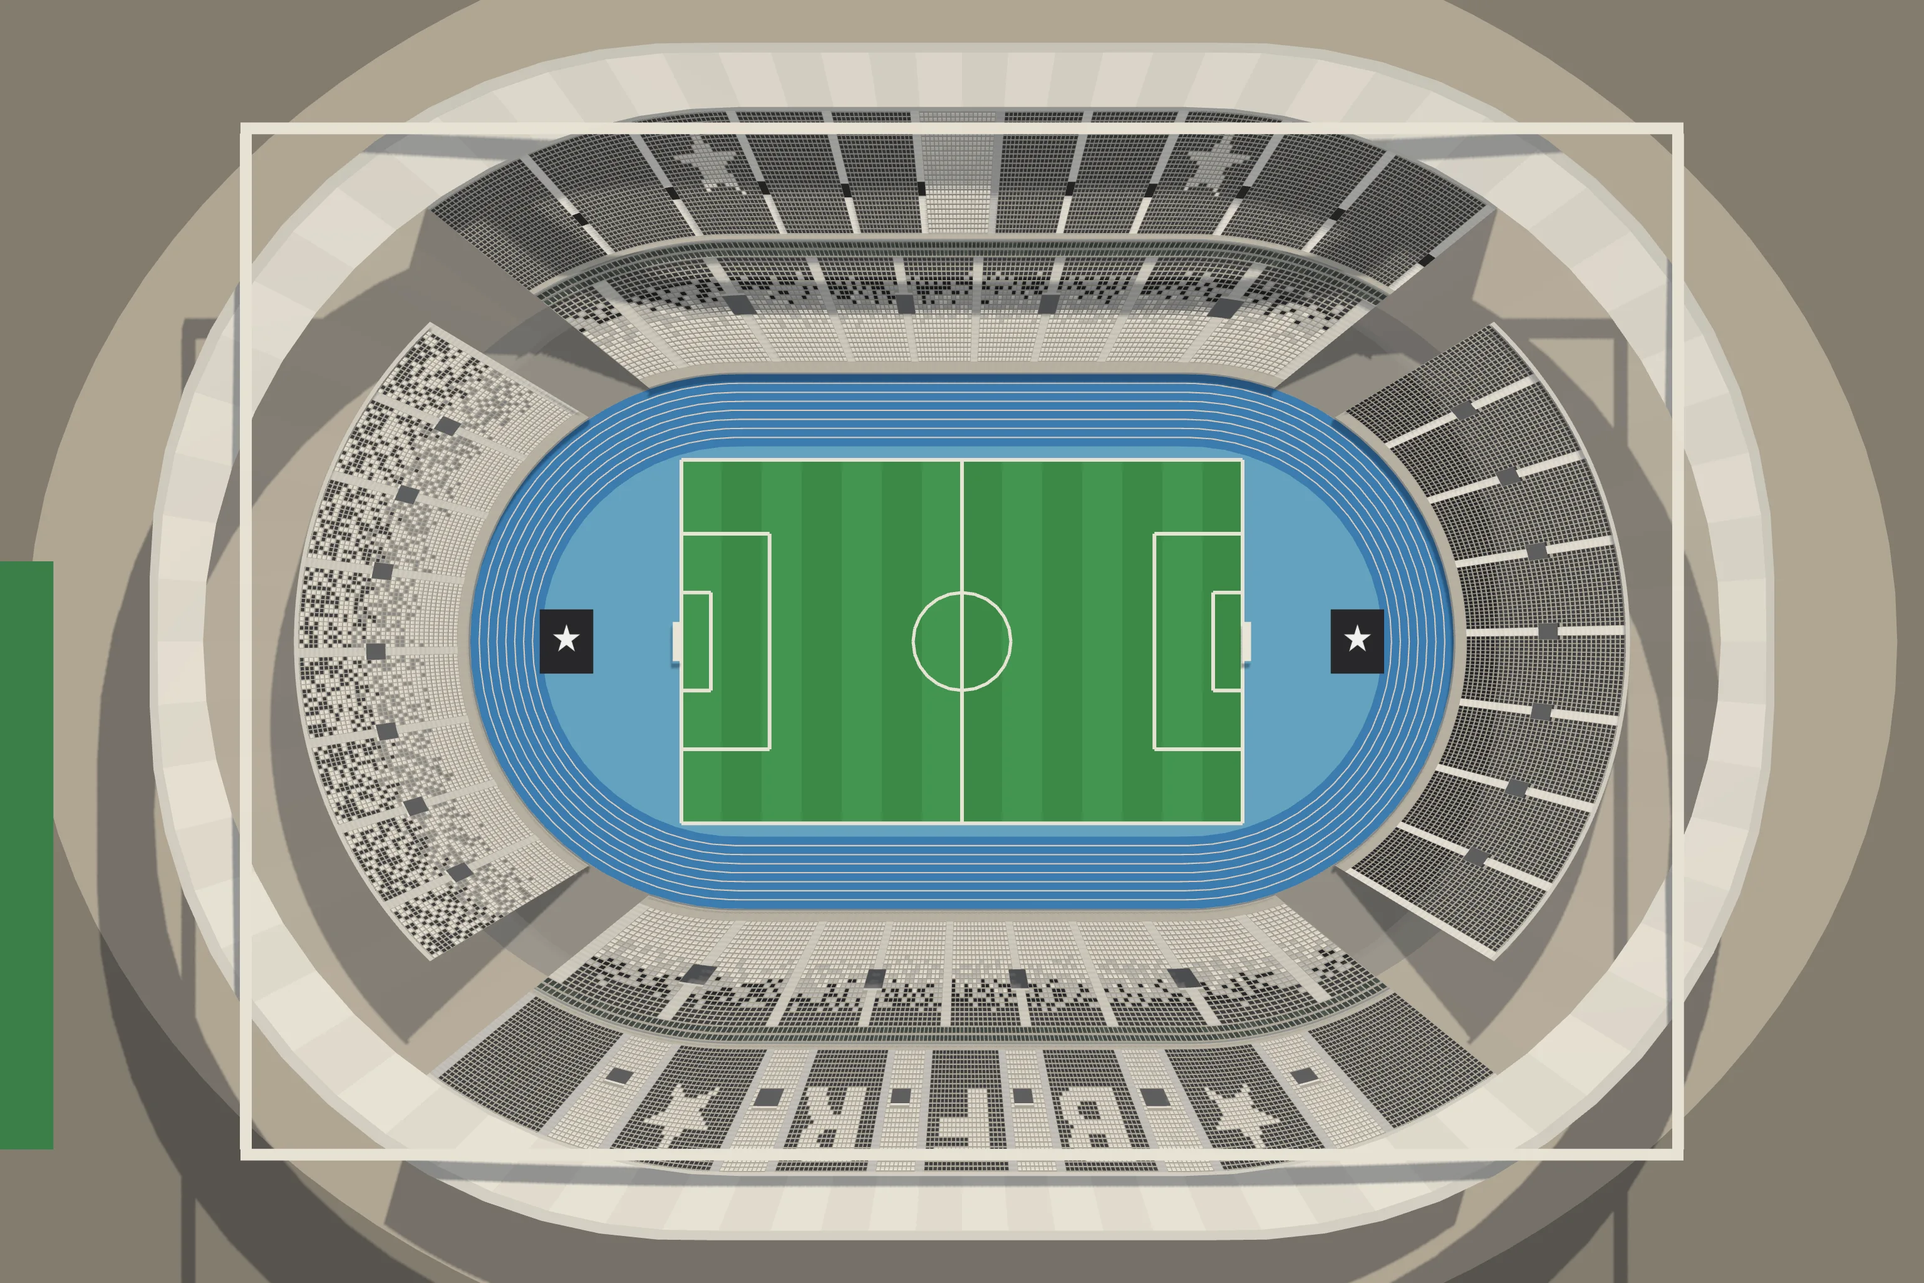
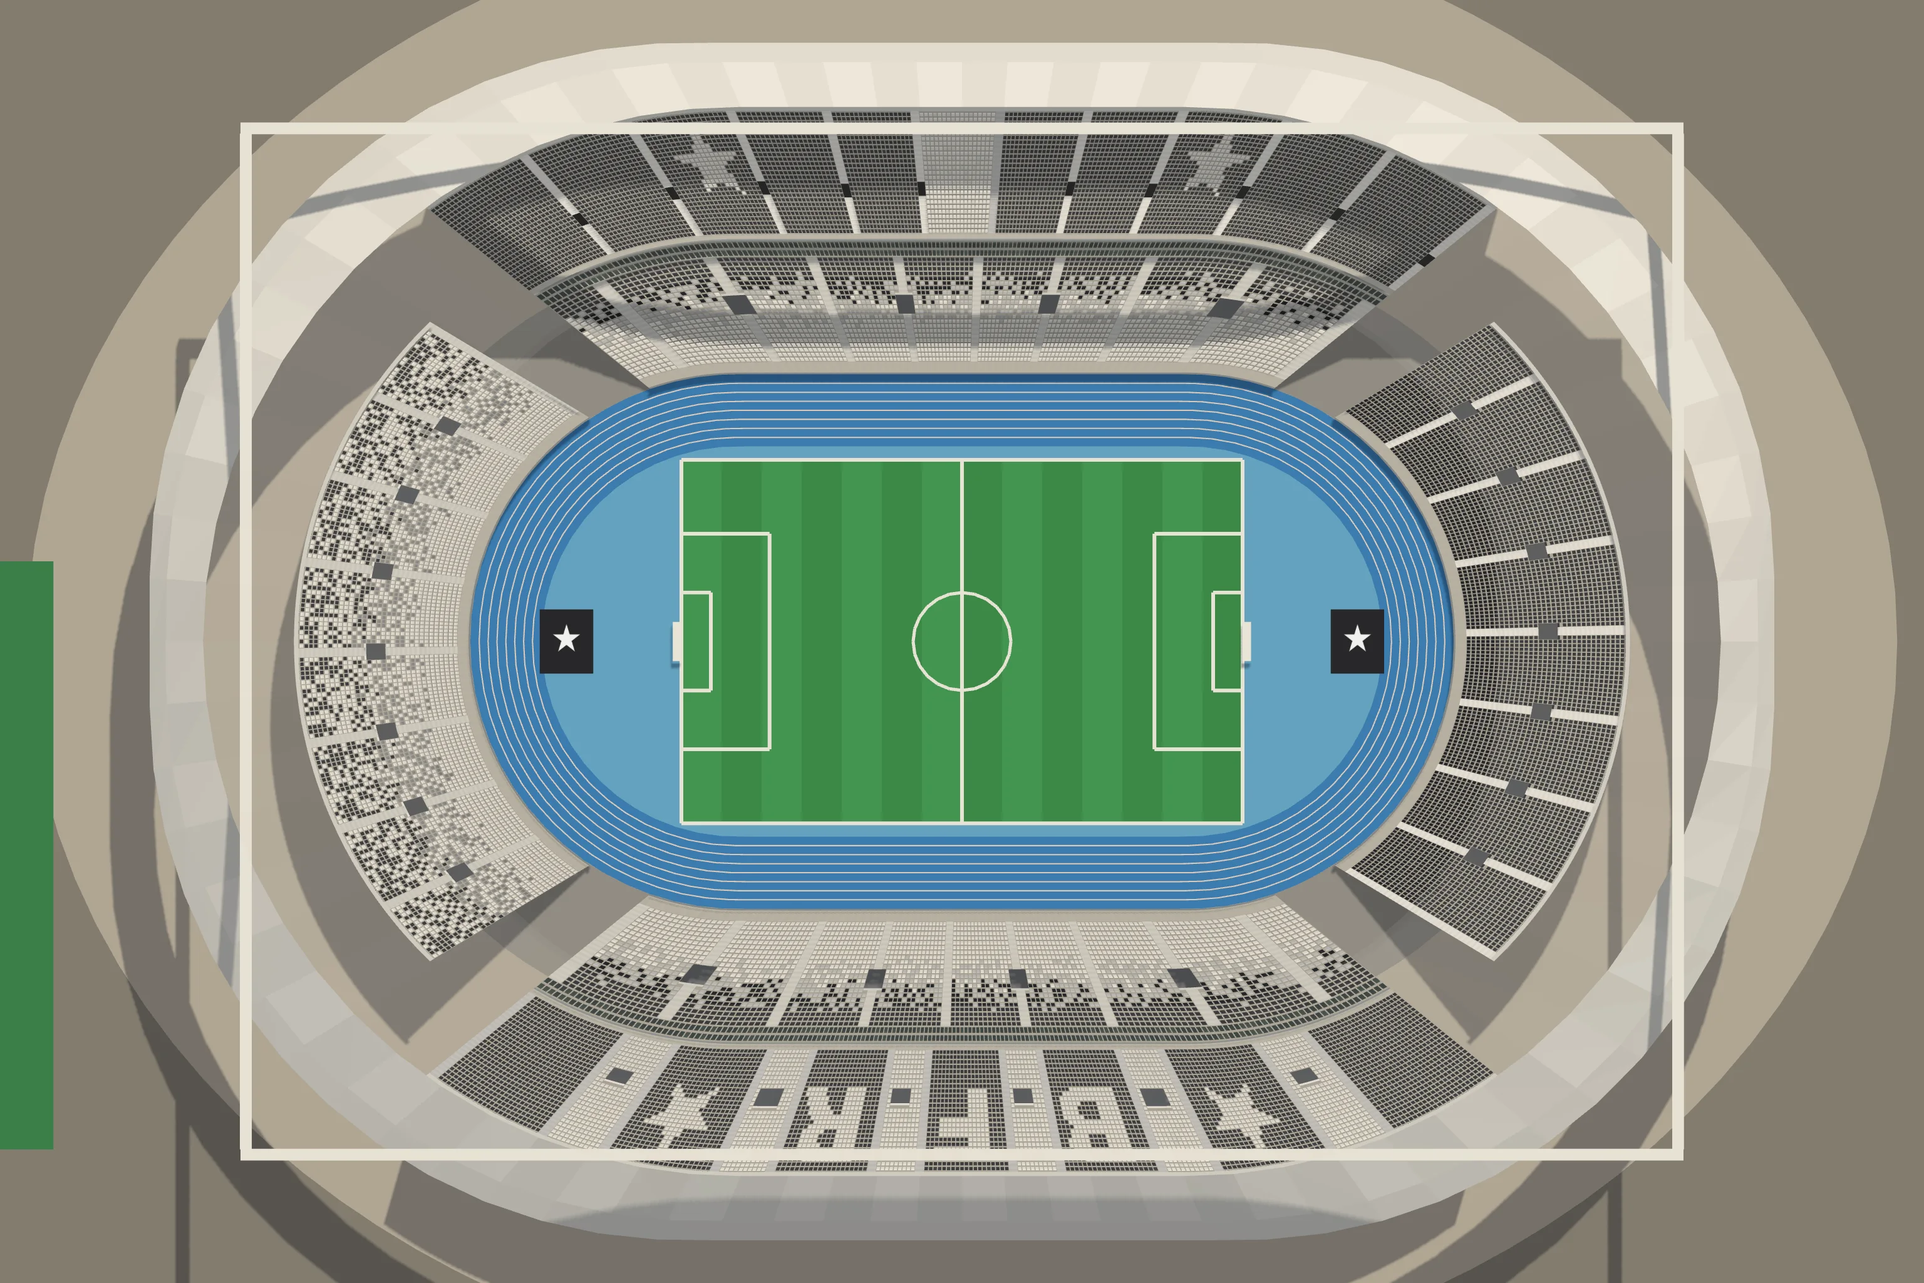
Nilton Santos: o telhado inclinado, alto na abertura e descendo pra fora com a beira dobrada, como na foto do dono
Claude-Session: https://claude.ai/code/session_019hwwMAyyP7ZAvyq6wYTetr

diff --git a/cenario3d/planta.html b/cenario3d/planta.html
@@ -289,24 +289,24 @@ button:focus-visible, input:focus-visible { outline: 2px solid var(--selecao); o
 
 <script type="module">
 import * as THREE from 'https://cdn.jsdelivr.net/npm/three@0.160.0/build/three.module.min.js';
-import { planoDaCasa, montarCasa, juntarBlocos, lugarDoDecalque, placasDoLote, segmentosDoMuro, carrosDoEstacionamento, portaoDoEstacionamento } from './js/casas3d.js?v=8bf3924c88';
-import { montarModelos } from './js/modelos3d.js?v=8bf3924c88';
-import { moldeDaPeca, comTransformador } from './js/props3d.js?v=8bf3924c88';
-import { ATLAS } from './js/modelos_atlas.js?v=8bf3924c88';
-import { Construtor, sorteio } from './js/construtor3d.js?v=8bf3924c88';
-import { gerarProposta, MAPAS, MAPA_DO_PORTE, RUA, LONGE_DO_ESTADIO_M, cisaoDaPraca, VAO_CIDADES_M, PRAIA_A_MAIS } from './js/proposta.js?v=8bf3924c88';
-import { montarSede, nivelQueCabe } from './js/sede3d.js?v=8bf3924c88';
-import { onibus as onibusDetalhe, juntar as juntarDetalhe } from './js/detalhe3d.js?v=8bf3924c88';
-import { montarLoteDeVeraneio, plantaDoLote, festaNoMundo, noMundoDoLote, cenaDaFesta, detalheDaCasaDaFesta } from './js/veraneio3d.js?v=8bf3924c88';
-import { montarCaravana, cenaDaCaravana } from './js/caravana3d.js?v=8bf3924c88';
-import { montarEstacao, montarTunel, montarCarro, TREM } from './js/metro3d.js?v=8bf3924c88';
-import { montarShopping, montarDelegacia, montarPraca, montarIgreja, montarEscola, montarHospital } from './js/equip3d.js?v=8bf3924c88';
-import { montarEquipAntigo, TIPOS_ANTIGOS } from './js/equip_antigo3d.js?v=8bf3924c88';
-import { PECAS_PRAIA, montarPecaDaPraia } from './js/praia3d.js?v=8bf3924c88';
-import { ESPECIES_LP, FLORA_LP, montarArvoreLowpoly, montarAsDez, facesDaArvore, especieLowpolyDe } from './js/arvores_lowpoly.js?v=8bf3924c88';
-import { plantarMato, montarMato, LONGE_M, DENSIDADE, LADRILHO_M } from './js/mato3d.js?v=8bf3924c88';
-import { ESTADIOS_JOGO, montarEstadioJogo, glbDoEstadio, cortarEstadio, plantaDoEstadio, modeloDaLotacao, nomeDoLetreiro, nomeComAcento, marcaDoEstadio, BOCAS_DOS_PORTOES, BILHETERIAS_DA_RUA } from './js/estadios3d.js?v=8bf3924c88';
-import { PECAS_AMBULANTES, montarAmbulante } from './js/ambulantes3d.js?v=8bf3924c88';
+import { planoDaCasa, montarCasa, juntarBlocos, lugarDoDecalque, placasDoLote, segmentosDoMuro, carrosDoEstacionamento, portaoDoEstacionamento } from './js/casas3d.js?v=8119954de7';
+import { montarModelos } from './js/modelos3d.js?v=8119954de7';
+import { moldeDaPeca, comTransformador } from './js/props3d.js?v=8119954de7';
+import { ATLAS } from './js/modelos_atlas.js?v=8119954de7';
+import { Construtor, sorteio } from './js/construtor3d.js?v=8119954de7';
+import { gerarProposta, MAPAS, MAPA_DO_PORTE, RUA, LONGE_DO_ESTADIO_M, cisaoDaPraca, VAO_CIDADES_M, PRAIA_A_MAIS } from './js/proposta.js?v=8119954de7';
+import { montarSede, nivelQueCabe } from './js/sede3d.js?v=8119954de7';
+import { onibus as onibusDetalhe, juntar as juntarDetalhe } from './js/detalhe3d.js?v=8119954de7';
+import { montarLoteDeVeraneio, plantaDoLote, festaNoMundo, noMundoDoLote, cenaDaFesta, detalheDaCasaDaFesta } from './js/veraneio3d.js?v=8119954de7';
+import { montarCaravana, cenaDaCaravana } from './js/caravana3d.js?v=8119954de7';
+import { montarEstacao, montarTunel, montarCarro, TREM } from './js/metro3d.js?v=8119954de7';
+import { montarShopping, montarDelegacia, montarPraca, montarIgreja, montarEscola, montarHospital } from './js/equip3d.js?v=8119954de7';
+import { montarEquipAntigo, TIPOS_ANTIGOS } from './js/equip_antigo3d.js?v=8119954de7';
+import { PECAS_PRAIA, montarPecaDaPraia } from './js/praia3d.js?v=8119954de7';
+import { ESPECIES_LP, FLORA_LP, montarArvoreLowpoly, montarAsDez, facesDaArvore, especieLowpolyDe } from './js/arvores_lowpoly.js?v=8119954de7';
+import { plantarMato, montarMato, LONGE_M, DENSIDADE, LADRILHO_M } from './js/mato3d.js?v=8119954de7';
+import { ESTADIOS_JOGO, montarEstadioJogo, glbDoEstadio, cortarEstadio, plantaDoEstadio, modeloDaLotacao, nomeDoLetreiro, nomeComAcento, marcaDoEstadio, BOCAS_DOS_PORTOES, BILHETERIAS_DA_RUA } from './js/estadios3d.js?v=8119954de7';
+import { PECAS_AMBULANTES, montarAmbulante } from './js/ambulantes3d.js?v=8119954de7';
 
 const $ = id => document.getElementById(id);
 const aviso = $('aviso');
@@ -323,25 +323,25 @@ function carregarScript(src) {
 }
 window.TO = window.TO || { dados: {} };
 try {
-  await carregarScript('dados/torcidas.js?v=8bf3924c88');
-  await carregarScript('dados/times.js?v=8bf3924c88');
-  await carregarScript('dados/cena_estadio.js?v=8bf3924c88');
-  await carregarScript('dados/cidades.js?v=8bf3924c88');
-  await carregarScript('dados/estadios.js?v=8bf3924c88');
-  await carregarScript('dados/escudos.js?v=8bf3924c88');
+  await carregarScript('dados/torcidas.js?v=8119954de7');
+  await carregarScript('dados/times.js?v=8119954de7');
+  await carregarScript('dados/cena_estadio.js?v=8119954de7');
+  await carregarScript('dados/cidades.js?v=8119954de7');
+  await carregarScript('dados/estadios.js?v=8119954de7');
+  await carregarScript('dados/escudos.js?v=8119954de7');
   /* o manifesto das faixas de verdade (a arte do dono, 29/09/2026): a arquibancada estende a da torcida */
-  await carregarScript('dados/faixas.js?v=8bf3924c88').catch(() => {});
+  await carregarScript('dados/faixas.js?v=8119954de7').catch(() => {});
   /* O DOMÍNIO DOS BAIRROS (o dono, 30/09/2026): as sedes repetidas num
      bairro saem espalhadas (nos dados, na carga) e os bares ganham o
      bairro deles — o mesmo módulo do jogo (js/mundo/dominio.js) */
-  await carregarScript('js/dominio.js?v=8bf3924c88').catch(() => {});
+  await carregarScript('js/dominio.js?v=8119954de7').catch(() => {});
 } catch (e) {
   aviso.textContent = 'A planta da cidade não carregou (' + e.message + '). Recarregue a página.';
   throw e;
 }
 /* os PNG dos escudos, embutidos (o montar.sh gera): sem o arquivo, o
    caminho vai direto pra img/escudos/ */
-await carregarScript('dados/escudos_embutidos.js?v=8bf3924c88').catch(() => {});
+await carregarScript('dados/escudos_embutidos.js?v=8119954de7').catch(() => {});
 const P = TO.dados.plantaEstadio, K = P.CIDADE, M = P.METRO, CALC = K.CALC;
 /* o mapa da vez (o pequeno, o médio ou o grande, montado pra praça
    escolhida): quem monta é usarMapa, lá embaixo */

diff --git a/cenario3d/dados/estadios_cenas.js b/cenario3d/dados/estadios_cenas.js
@@ -13526,7 +13526,7 @@ window.__ESTADIOS = {
    "visitante": 3
   },
   "foto": {
-   "imagem": "img/cenas/estadio_nilton_santos.webp?v=fe4a6989",
+   "imagem": "img/cenas/estadio_nilton_santos.webp?v=a528e1c4",
    "mascara": "384;384;384;384;384;384;384;384;384;384;384;384;384;384;384;384;384;384;384;384;384;384;136,112,136;129,126,129;124,136,124;120,144,120;116,152,116;113,158,113;110,164,110;108,168,108;105,174,105;103,178,103;101,182,101;99,186,99;97,190,97;95,194,95;93,198,93;92,200,92;90,204,90;89,206,89;87,210,87;86,212,86;86,212,86;88,208,88;89,206,89;90,204,90;91,202,91;93,198,93;94,196,94;95,194,95;96,192,96;98,188,98;99,186,99;100,184,100;101,182,101;103,178,103;104,176,104;105,174,105;106,172,106;107,170,107;109,166,109;108,168,108;107,170,107;105,174,105;85,1,18,176,18,1,85;84,4,14,180,14,4,84;83,6,12,182,12,6,83;82,9,8,186,8,9,82;81,12,5,188,5,12,81;80,14,3,190,3,14,80;80,224,80;79,226,79;78,228,78;77,230,77;76,65,102,65,76;76,59,114,59,76;75,56,122,56,75;74,55,126,55,74;74,52,132,52,74;73,51,136,51,73;72,50,140,50,72;72,48,144,48,72;71,48,146,48,71;70,47,150,47,70;70,46,152,46,70;69,45,156,45,69;69,44,158,44,69;68,44,160,44,68;68,43,162,43,68;67,43,164,43,67;67,42,166,42,67;66,42,168,42,66;66,41,170,41,66;65,41,172,41,65;65,40,174,40,65;65,39,176,39,65;64,40,176,40,64;64,39,178,39,64;64,38,180,38,64;63,39,180,39,63;63,38,182,38,63;63,37,184,37,63;62,38,184,38,62;62,37,186,37,62;62,37,186,37,62;61,37,188,37,61;61,37,188,37,61;61,36,190,36,61;61,36,190,36,61;60,37,190,37,60;60,36,192,36,60;60,36,192,36,60;60,36,192,36,60;60,35,194,35,60;60,35,194,35,60;59,36,194,36,59;59,35,196,35,59;59,35,196,35,59;59,35,196,35,59;59,35,196,35,59;59,35,196,35,59;59,35,196,35,59;59,34,198,34,59;59,34,198,34,59;59,34,198,34,59;59,34,198,34,59;59,34,198,34,59;59,34,198,34,59;59,34,198,34,59;59,34,198,34,59;59,34,198,34,59;59,34,198,34,59;59,34,198,34,59;59,34,198,34,59;59,35,196,35,59;59,35,196,35,59;59,35,196,35,59;59,35,196,35,59;59,35,196,35,59;59,35,196,35,59;59,36,194,36,59;60,35,194,35,60;60,35,194,35,60;60,36,192,36,60;60,36,192,36,60;60,36,192,36,60;60,37,190,37,60;61,36,190,36,61;61,36,190,36,61;61,37,188,37,61;61,37,188,37,61;62,37,186,37,62;62,37,186,37,62;62,38,184,38,62;63,37,184,37,63;63,38,182,38,63;63,39,180,39,63;64,38,180,38,64;64,39,178,39,64;64,40,176,40,64;65,39,176,39,65;65,40,174,40,65;65,41,172,41,65;66,41,170,41,66;66,42,168,42,66;67,42,166,42,67;67,43,164,43,67;68,43,162,43,68;68,44,160,44,68;69,44,158,44,69;69,45,156,45,69;70,46,152,46,70;70,47,150,47,70;71,48,146,48,71;72,48,144,48,72;72,50,140,50,72;73,51,136,51,73;74,52,132,52,74;74,55,126,55,74;75,56,122,56,75;76,59,114,59,76;76,65,102,65,76;77,230,77;78,228,78;79,226,79;80,224,80;80,14,3,190,3,14,80;81,12,5,188,5,12,81;82,9,8,186,8,9,82;83,6,12,182,12,6,83;84,4,14,180,14,4,84;85,1,18,176,18,1,85;105,174,105;107,170,107;108,168,108;109,166,109;107,170,107;106,172,106;105,174,105;104,176,104;103,178,103;101,182,101;100,184,100;99,186,99;98,188,98;96,192,96;95,194,95;94,196,94;93,198,93;91,202,91;90,204,90;89,206,89;88,208,88;86,212,86;86,212,86;87,210,87;89,206,89;90,204,90;92,200,92;93,198,93;95,194,95;97,190,97;99,186,99;101,182,101;103,178,103;105,174,105;108,168,108;110,164,110;113,158,113;116,152,116;120,144,120;124,136,124;129,126,129;136,112,136;384;384;384;384;384;384;384;384;384;384;384;384;384;384;384;384;384;384;384;384;384;384"
   },
   "cena": {

diff --git a/cenario3d/js/jogo2d.js b/cenario3d/js/jogo2d.js
@@ -17,7 +17,7 @@
    cartão da partida cai perto da hora da bola e nada do que conta o
    placar passa na frente dele.
    ========================================================= */
-import { CASCA } from './jogo_casca.js?v=8bf3924c88';
+import { CASCA } from './jogo_casca.js?v=8119954de7';
 
 const carregarScript = src => new Promise((ok, erro) => {
   const s = document.createElement('script');
@@ -31,17 +31,17 @@ async function montarJogo() {
   caixa.innerHTML = CASCA;
   while (caixa.firstChild) document.body.appendChild(caixa.firstChild);
   /* os escudos, as fotos das praças e as bandeiras embutidos (o `IMG()` do jogo procura aqui antes do caminho) */
-  await carregarScript('dados/imagens_jogo.js?v=8bf3924c88').catch(() => {});
+  await carregarScript('dados/imagens_jogo.js?v=8119954de7').catch(() => {});
   /* os estádios low-poly das cenas (ferramentas/estadios/assar.js): antes do jogo, que monta as cenas quando carrega */
-  await carregarScript('dados/estadios_cenas.js?v=8bf3924c88').catch(() => {});
+  await carregarScript('dados/estadios_cenas.js?v=8119954de7').catch(() => {});
   /* sem o rolo do feed: a tela entre os jogos é o portal */
   window.TO = window.TO || {};
   TO.semFeed = true;
-  await carregarScript('js/jogo.js?v=8bf3924c88');
-  await carregarScript('js/portal.js?v=8bf3924c88').catch(err => console.error('o portal não carregou:', err));
+  await carregarScript('js/jogo.js?v=8119954de7');
+  await carregarScript('js/portal.js?v=8119954de7').catch(err => console.error('o portal não carregou:', err));
   /* o boneco das cenas de imagem (os dois níveis afinados, em base64) */
-  if (!TO.dados.bonecoPertoGLB) await carregarScript('dados/boneco_glb.js?v=8bf3924c88').catch(() => {});
-  await import('./bonecos3_global.js?v=8bf3924c88').catch(err => console.error('o boneco das cenas não carregou:', err));
+  if (!TO.dados.bonecoPertoGLB) await carregarScript('dados/boneco_glb.js?v=8119954de7').catch(() => {});
+  await import('./bonecos3_global.js?v=8119954de7').catch(err => console.error('o boneco das cenas não carregou:', err));
   ligar();
 }
 

diff --git a/cenario3d/jogo.html b/cenario3d/jogo.html
@@ -9,16 +9,16 @@
 <link rel="preconnect" href="https://fonts.googleapis.com">
 <link rel="preconnect" href="https://fonts.gstatic.com" crossorigin>
 <link rel="stylesheet" href="https://fonts.googleapis.com/css2?family=Barlow+Semi+Condensed:wght@500;600;700&family=Barlow:wght@400;500;600&family=IBM+Plex+Mono:wght@400;500&display=swap">
-<link rel="stylesheet" href="css/jogo.css?v=8bf3924c88">
-<link rel="stylesheet" href="css/jogo3d.css?v=8bf3924c88">
-<link rel="stylesheet" href="css/portal.css?v=8bf3924c88">
-<link rel="stylesheet" href="css/telas3d.css?v=8bf3924c88">
+<link rel="stylesheet" href="css/jogo.css?v=8119954de7">
+<link rel="stylesheet" href="css/jogo3d.css?v=8119954de7">
+<link rel="stylesheet" href="css/portal.css?v=8119954de7">
+<link rel="stylesheet" href="css/telas3d.css?v=8119954de7">
 <style>
 [hidden] { display: none !important; }
 html, body { height: 100%; margin: 0; }
 </style>
 </head>
 <body class="jogo3d">
-<script type="module" src="js/jogo2d.js?v=8bf3924c88"></script>
+<script type="module" src="js/jogo2d.js?v=8119954de7"></script>
 </body>
 </html>

diff --git a/cenario3d/js/casas3d.js b/cenario3d/js/casas3d.js
@@ -60,10 +60,10 @@
    avançam (`rec`), e o letreiro, a pixação e a falha de reboco do
    bairro vão pro plano dessa parede, não pro da divisa.
    ========================================================= */
-import { Construtor, METRO, mureta, toldo, arSplit, sorteio } from './construtor3d.js?v=8bf3924c88';
-import { ATLAS } from './modelos_atlas.js?v=8bf3924c88';
+import { Construtor, METRO, mureta, toldo, arSplit, sorteio } from './construtor3d.js?v=8119954de7';
+import { ATLAS } from './modelos_atlas.js?v=8119954de7';
 /* as lojas do assalto (lojas3d.js): modelos de lote como os outros */
-import { TIPOS_LOJA, REC_LOJA, placaDaLoja } from './lojas3d.js?v=8bf3924c88';
+import { TIPOS_LOJA, REC_LOJA, placaDaLoja } from './lojas3d.js?v=8119954de7';
 
 /* o arquivo de cada folha, pro bairro montar o material dele */
 export const arquivoDaFolha = folha => ATLAS[folha].arquivo;

diff --git a/cenario3d/js/ambulantes3d.js b/cenario3d/js/ambulantes3d.js
@@ -27,8 +27,8 @@
    que a planta acha o lugar dela na calçada do estádio. `sol`: o meio e
    o raio da copa ([x, z, r]), que o mapa desenha de perto.
    ========================================================= */
-import { Construtor, noMundo, placasNoMundo, sorteio, esfera, unit } from './construtor3d.js?v=8bf3924c88';
-import { Lugar, barra, tubo, cilindro, bloco, pano, toro, guardaSol, cadeiraPlastica, isopor, banqueta, CORES_SOL } from './praia3d.js?v=8bf3924c88';
+import { Construtor, noMundo, placasNoMundo, sorteio, esfera, unit } from './construtor3d.js?v=8119954de7';
+import { Lugar, barra, tubo, cilindro, bloco, pano, toro, guardaSol, cadeiraPlastica, isopor, banqueta, CORES_SOL } from './praia3d.js?v=8119954de7';
 
 const AQUI = Lugar();
 const escolha = (rnd, lista) => lista[Math.floor(rnd() * lista.length) % lista.length];

diff --git a/cenario3d/js/praia3d.js b/cenario3d/js/praia3d.js
@@ -36,8 +36,8 @@
    cadeira e a mesa de plástico) servem também os ambulantes da porta do
    estádio (ambulantes3d.js), na mesma folha.
    ========================================================= */
-import { Construtor, METRO, lerp, sub, soma, esc, unit, pv, noMundo, placasNoMundo, sorteio, varrer, esfera } from './construtor3d.js?v=8bf3924c88';
-import { montarArvoreLowpoly } from './arvores_lowpoly.js?v=8bf3924c88';
+import { Construtor, METRO, lerp, sub, soma, esc, unit, pv, noMundo, placasNoMundo, sorteio, varrer, esfera } from './construtor3d.js?v=8119954de7';
+import { montarArvoreLowpoly } from './arvores_lowpoly.js?v=8119954de7';
 
 const ALTO = [0, 1, 0];
 const escolha = (rnd, lista) => lista[Math.floor(rnd() * lista.length) % lista.length];

diff --git a/cenario3d/js/modelos3d.js b/cenario3d/js/modelos3d.js
@@ -32,8 +32,8 @@
    requadro da janela, toldo, ar-condicionado. O resto é pintura.
    ========================================================= */
 import * as THREE from 'https://cdn.jsdelivr.net/npm/three@0.160.0/build/three.module.min.js';
-import { ATLAS } from './modelos_atlas.js?v=8bf3924c88';
-import { Construtor, METRO, lerp, sub, soma, esc, pv, pe, unit, recuoPoligono, mureta, toldo, arSplit } from './construtor3d.js?v=8bf3924c88';
+import { ATLAS } from './modelos_atlas.js?v=8119954de7';
+import { Construtor, METRO, lerp, sub, soma, esc, pv, pe, unit, recuoPoligono, mureta, toldo, arSplit } from './construtor3d.js?v=8119954de7';
 
 /* =======================================================
    1. A IGREJA MATRIZ

diff --git a/cenario3d/js/props3d.js b/cenario3d/js/props3d.js
@@ -26,8 +26,8 @@
    poste vira uma haste de longe; o resto, que é miúdo, some.
    ========================================================= */
 import * as THREE from 'https://cdn.jsdelivr.net/npm/three@0.160.0/build/three.module.min.js';
-import { ATLAS } from './modelos_atlas.js?v=8bf3924c88';
-import { Construtor, METRO, lerp } from './construtor3d.js?v=8bf3924c88';
+import { ATLAS } from './modelos_atlas.js?v=8119954de7';
+import { Construtor, METRO, lerp } from './construtor3d.js?v=8119954de7';
 
 /* as cores que o vértice dá pro que sai claro na folha */
 const COR_CESTO = ['#6aa33a', '#d2b53a', '#3f82ad', '#8b6a3c', '#b8452f'];

diff --git a/cenario3d/js/mato3d.js b/cenario3d/js/mato3d.js
@@ -19,8 +19,8 @@
 
    Tudo em metros; `noMundo` converte. A mesma semente dá o mesmo mato.
    ========================================================= */
-import { METRO, noMundo, sorteio } from './construtor3d.js?v=8bf3924c88';
-import { facesDaArvore, especieLowpolyDe } from './arvores_lowpoly.js?v=8bf3924c88';
+import { METRO, noMundo, sorteio } from './construtor3d.js?v=8119954de7';
+import { facesDaArvore, especieLowpolyDe } from './arvores_lowpoly.js?v=8119954de7';
 
 /* a área de chão de cada árvore (m²), por lugar */
 export const DENSIDADE = { mata: 70, cerrado: 200, caatinga: 150, sul: 90, praia: 120, cidade: 250 };

diff --git a/cenario3d/js/bonecos3_global.js b/cenario3d/js/bonecos3_global.js
@@ -14,7 +14,7 @@
    DOMContentLoaded: quem usa (a ponte, numa cena aberta pelo jogador)
    chega muito depois.
    ========================================================= */
-import { montar, desenharDeCima, desenharVitrine, limparDeCima, fotoDoTrofeu, fotoDaBriga, fotoDaCena, perdeu, bonecos } from './bonecos3_cena.js?v=8bf3924c88';
+import { montar, desenharDeCima, desenharVitrine, limparDeCima, fotoDoTrofeu, fotoDaBriga, fotoDaCena, perdeu, bonecos } from './bonecos3_cena.js?v=8119954de7';
 
 window.TO = window.TO || {};
 TO.diaJogo = TO.diaJogo || {};

diff --git a/cenario3d/js/bonecos3_cena.js b/cenario3d/js/bonecos3_cena.js
@@ -103,7 +103,7 @@
       numa fase sorteada (quem sai junto não sai no mesmo pé).
    ========================================================= */
 import * as THREE from 'https://cdn.jsdelivr.net/npm/three@0.160.0/build/three.module.min.js';
-import { GLTFLoader, SkeletonUtils } from './GLTFLoader.js?v=8bf3924c88';
+import { GLTFLoader, SkeletonUtils } from './GLTFLoader.js?v=8119954de7';
 
 /* onde o modelo mora, quando não vem embutido em base64: o detalhado
    (o do Blender) e os dois níveis afinados dele (ferramentas/afinar_boneco.mjs) */
